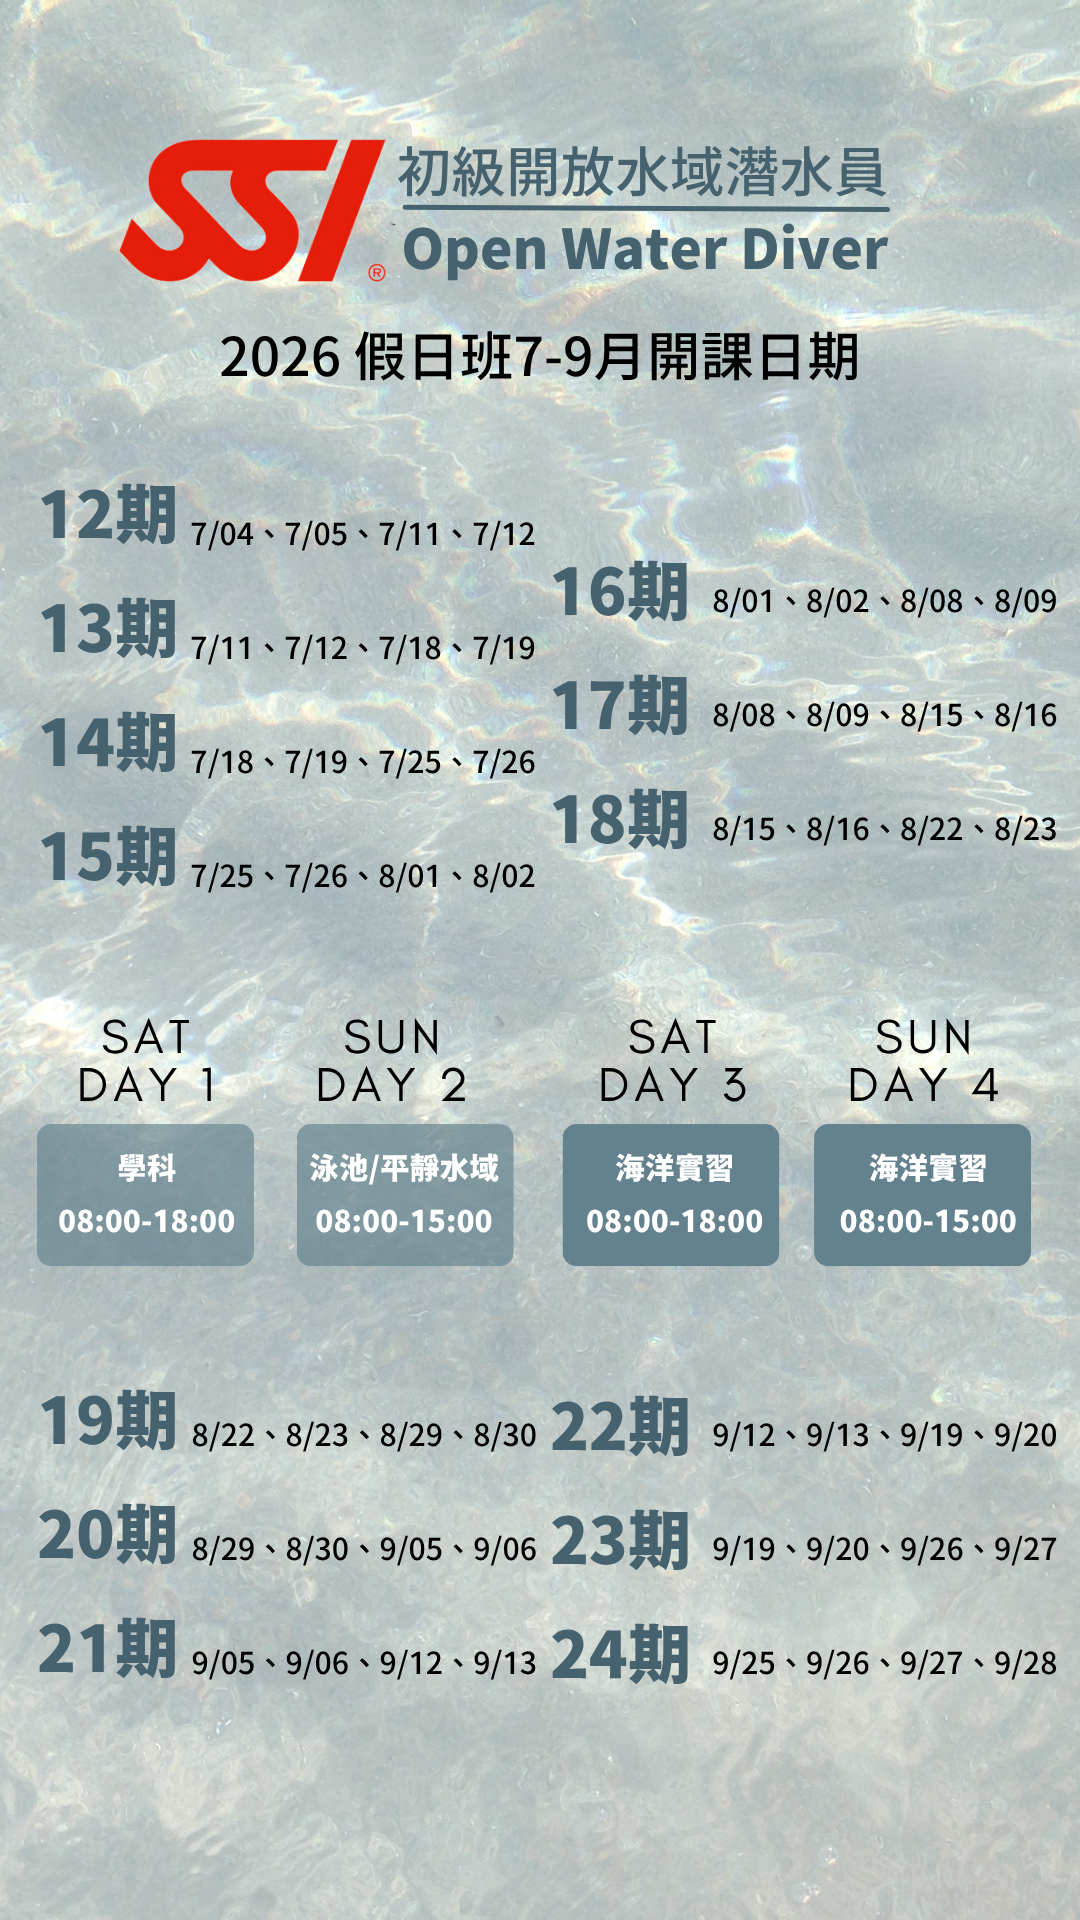
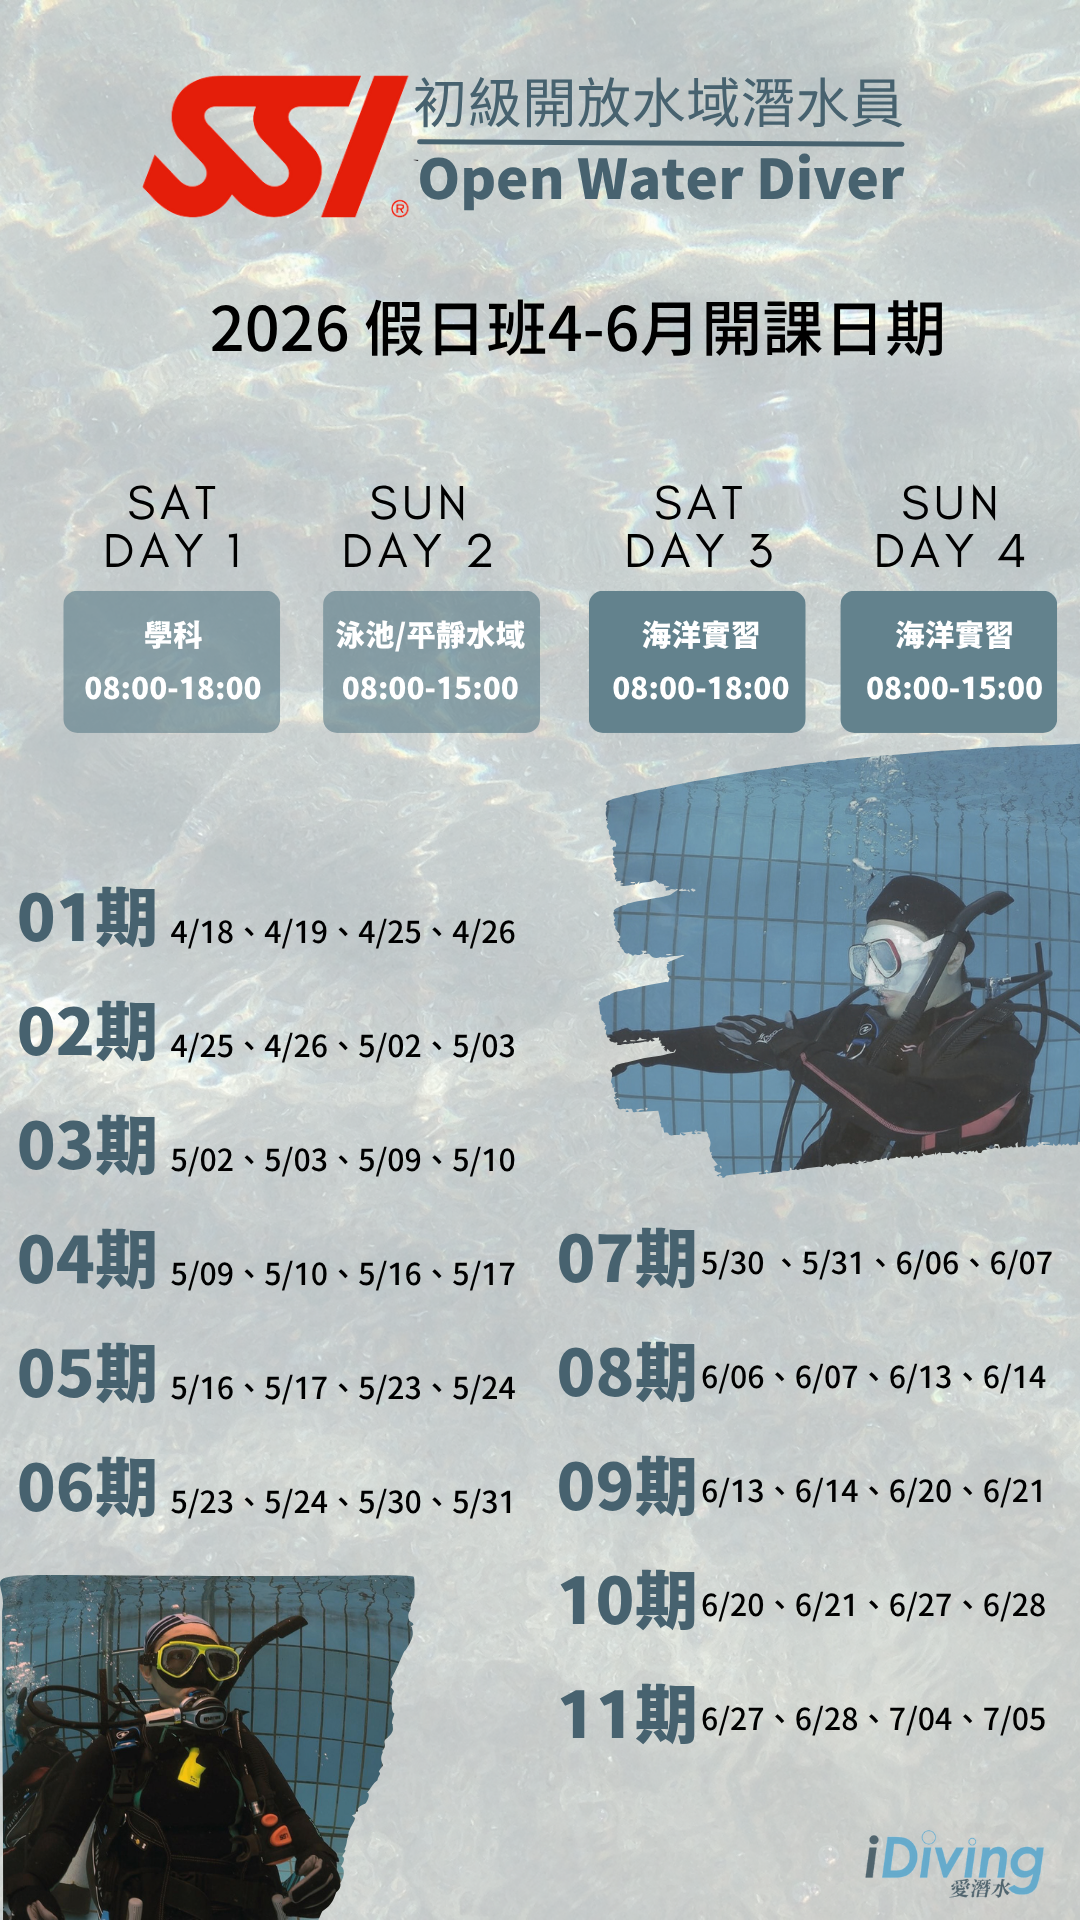
OWD 4-6 7-9 圖更新

diff --git a/src/app/pages/c120/c120.component.html b/src/app/pages/c120/c120.component.html
@@ -186,9 +186,9 @@
                     <div class="carousel-item active">
                       <img src="../../../../assets/Image/Data/OWD_Weekend_Schedule.png" class="d-block w-100" alt="...">
                     </div>
-                    <!-- <div class="carousel-item">
+                    <div class="carousel-item">
                       <img src="../../../../assets/Image/Data/OWD_Weekend_Schedule01.png" class="d-block w-100" alt="...">
-                    </div> -->
+                    </div>
                   </div>
                   <button class="carousel-control-prev" type="button" data-bs-target="#carouselExampleIndicators" data-bs-slide="prev">
                     <span class="carousel-control-prev-icon" aria-hidden="true"></span>
